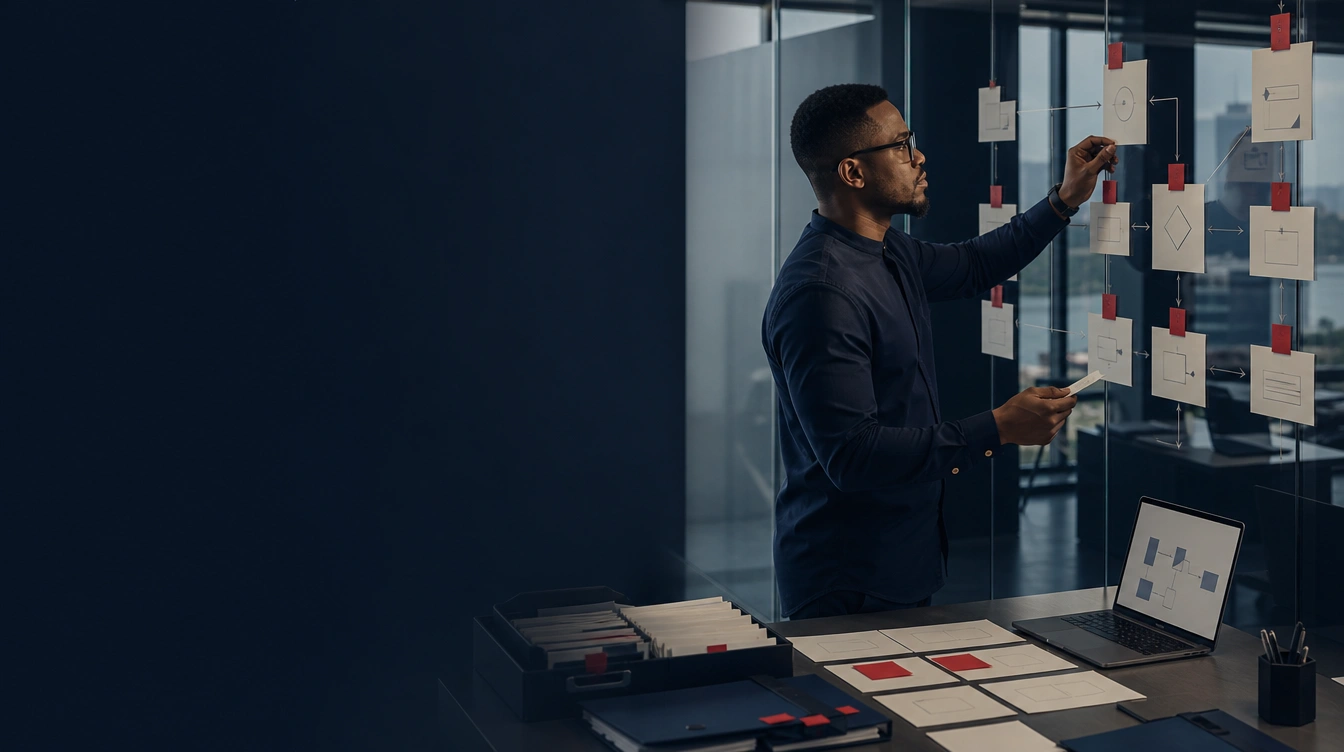
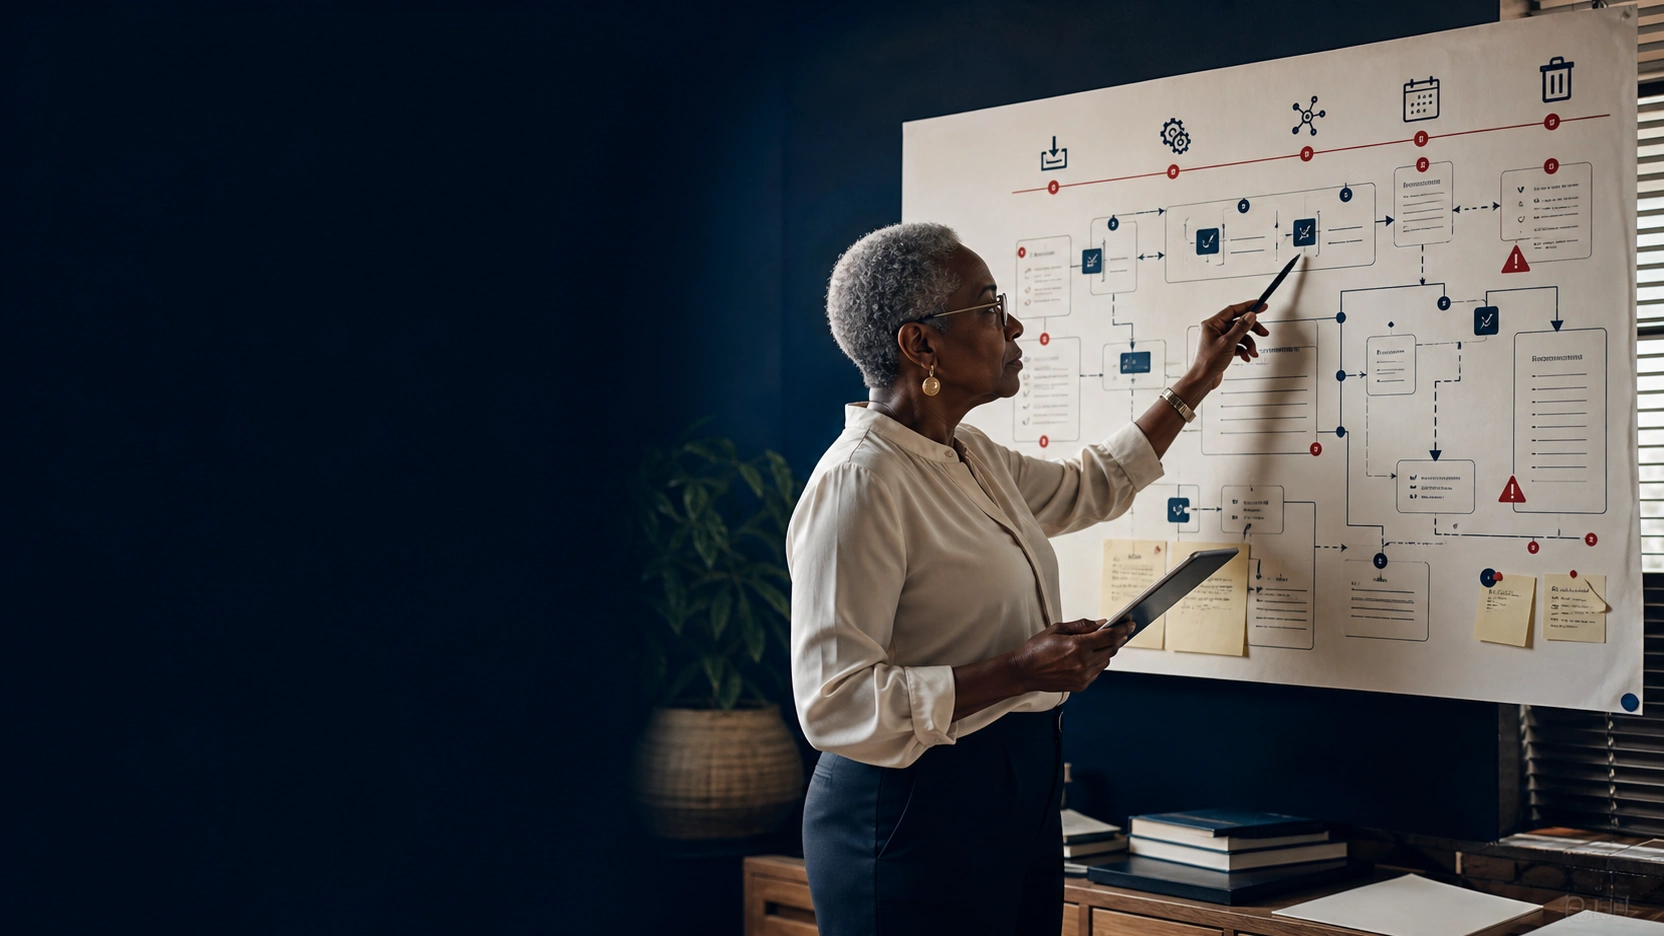
fix: refine services lifecycle and hero asset

diff --git a/app/globals.css b/app/globals.css
@@ -315,19 +315,14 @@ h1 { max-width: 720px; margin-bottom: 30px; color: white; font-size: clamp(49px,
 .services-value { margin: 0; padding: 22px; border-left: 3px solid var(--crimson); background: rgba(8,36,51,.055); color: var(--ink); font-size: 12px; line-height: 1.65; }
 .services-value b { margin-right: .28em; }
 .services-lifecycle { background: #e9eeee; }
-.services-lifecycle-static { position: relative; min-height: 270px; margin: -25px 0 40px; overflow: hidden; }
-.services-lifecycle-static svg { width: 100%; height: auto; min-width: 760px; }
-.services-lifecycle-track, .services-lifecycle-progress { fill: none; stroke-width: 3; }
-.services-lifecycle-track { stroke: rgba(8,36,51,.2); }
-.services-lifecycle-progress { stroke: var(--crimson); stroke-dasharray: 1020; stroke-dashoffset: 0; }
-.services-lifecycle-node circle { fill: var(--paper); stroke: var(--navy); stroke-width: 2; }
-.services-lifecycle-node text { fill: var(--navy); font: 800 17px var(--font-manrope), sans-serif; letter-spacing: .08em; }
+.services-lifecycle-static { position: relative; min-height: 270px; margin: -25px 0 40px; padding: 0 clamp(20px, 4vw, 48px); display: grid; align-items: center; overflow: hidden; }
+.services-lifecycle-track, .services-lifecycle-progress { position: absolute; top: 50%; left: clamp(20px, 4vw, 48px); right: clamp(20px, 4vw, 48px); height: 3px; transform: translateY(-50%); }
+.services-lifecycle-track { background: rgba(8,36,51,.2); }
+.services-lifecycle-progress { background: var(--crimson); transform-origin: left center; }
+.services-lifecycle-nodes { position: relative; z-index: 1; display: grid; grid-template-columns: repeat(5, minmax(0, 1fr)); gap: clamp(12px, 2vw, 24px); align-items: center; margin: 0; padding: 0; list-style: none; }
+.services-lifecycle-node { display: grid; place-items: center; width: clamp(58px, 8vw, 98px); aspect-ratio: 1; margin-inline: auto; border: 2px solid var(--navy); border-radius: 999px; background: var(--paper); color: var(--navy); font: 800 clamp(13px, 1.4vw, 17px)/1 var(--font-manrope), sans-serif; letter-spacing: .08em; }
 .services-lifecycle--animated .services-lifecycle-progress { animation: services-lifecycle-flow 5s ease-in-out infinite; }
-.services-lifecycle--animated .services-lifecycle-node { animation: services-lifecycle-pulse 5s ease-in-out infinite; transform-box: fill-box; transform-origin: center; }
-.services-lifecycle--animated .services-lifecycle-node:nth-of-type(2) { animation-delay: 1s; }
-.services-lifecycle--animated .services-lifecycle-node:nth-of-type(3) { animation-delay: 2s; }
-.services-lifecycle--animated .services-lifecycle-node:nth-of-type(4) { animation-delay: 3s; }
-.services-lifecycle--animated .services-lifecycle-node:nth-of-type(5) { animation-delay: 4s; }
+.services-lifecycle--animated .services-lifecycle-node { animation: services-lifecycle-pulse 5s ease-in-out infinite; transform-origin: center; }
 .services-stage-grid { display: grid; grid-template-columns: repeat(5, 1fr); border-top: 1px solid var(--navy); }
 .services-stage-grid article { min-height: 245px; padding: 30px 25px; border-right: 1px solid var(--rule); }
 .services-stage-grid article:last-child { border-right: 0; }
@@ -345,7 +340,7 @@ h1 { max-width: 720px; margin-bottom: 30px; color: white; font-size: clamp(49px,
 .services-cta p:last-child { margin: 0; color: #ffe5e7; }
 .services-cta a { min-width: 215px; min-height: 54px; display: inline-flex; justify-content: space-between; align-items: center; gap: 24px; padding: 0 20px; background: white; color: var(--crimson); font-size: 11px; font-weight: 850; }
 .services-cta a svg { width: 18px; }
-@keyframes services-lifecycle-flow { 0% { stroke-dashoffset: 1020; } 70%, 100% { stroke-dashoffset: 0; } }
+@keyframes services-lifecycle-flow { 0% { transform: translateY(-50%) scaleX(0); } 70%, 100% { transform: translateY(-50%) scaleX(1); } }
 @keyframes services-lifecycle-pulse { 0%, 12%, 100% { transform: scale(1); } 6% { transform: scale(1.1); } }
 
 /* Industries */
@@ -587,8 +582,10 @@ h1 { max-width: 720px; margin-bottom: 30px; color: white; font-size: clamp(49px,
   .services-pillar > div:first-child { grid-template-columns: 34px 1fr; gap: 12px; }
   .services-stage-grid { grid-template-columns: 1fr; }
   .services-stage-grid article { min-height: 0; border-right: 0; }
-  .services-lifecycle-static { min-height: 210px; overflow-x: auto; }
-  .services-lifecycle-static svg { width: 760px; }
+  .services-lifecycle-static { min-height: 180px; margin-bottom: 28px; padding-inline: 0; }
+  .services-lifecycle-track, .services-lifecycle-progress { left: 0; right: 0; }
+  .services-lifecycle-nodes { gap: 8px; }
+  .services-lifecycle-node { width: clamp(44px, 14vw, 56px); font-size: 12px; }
   .services-cta a { width: 100%; }
 }
 

diff --git a/app/components/ServicesLifecycle.tsx b/app/components/ServicesLifecycle.tsx
@@ -1,6 +1,8 @@
 "use client";
 
-import { useEffect, useState } from "react";
+import { type CSSProperties, useEffect, useState } from "react";
+
+const lifecycleSteps = ["01", "02", "03", "04", "05"];
 
 export function ServicesLifecycle() {
   const [animated, setAnimated] = useState(false);
@@ -20,16 +22,15 @@ export function ServicesLifecycle() {
       aria-label="GPM advisory lifecycle diagram"
       tabIndex={0}
     >
-      <svg aria-hidden="true" focusable="false" viewBox="0 0 1200 300">
-        <path className="services-lifecycle-track" d="M90 150H1110" />
-        <path className="services-lifecycle-progress" d="M90 150H1110" />
-        {[90, 345, 600, 855, 1110].map((x, index) => (
-          <g className="services-lifecycle-node" key={x}>
-            <circle cx={x} cy="150" r="49" />
-            <text x={x} y="157" textAnchor="middle">{String(index + 1).padStart(2, "0")}</text>
-          </g>
+      <div className="services-lifecycle-track" aria-hidden="true" />
+      <div className="services-lifecycle-progress" aria-hidden="true" />
+      <ol className="services-lifecycle-nodes" aria-hidden="true">
+        {lifecycleSteps.map((step, index) => (
+          <li className="services-lifecycle-node" key={step} style={{ animationDelay: `${index}s` } as CSSProperties}>
+            <span>{step}</span>
+          </li>
         ))}
-      </svg>
+      </ol>
     </div>
   );
 }

diff --git a/README.md b/README.md
@@ -83,21 +83,21 @@ The people shown are illustrative subjects. They are not GPM personnel or staff,
 
 ### Services imagery (new GPT Image 2 generation, 2026-08-25)
 
-Two genuinely new GPT Image 2 production masters were generated and approved by Groot for this refinement; the previous local assets (`gpm-privacy-impact-assessment-v2.webp` and `gpm-privacy-capability-workshop-v3.webp`) were not reused, derived, or regenerated.
+Two genuinely new text-to-image production masters were generated with OpenAI GPT Image 2 Medium and accepted for this refinement. No supplied reference, existing GPM production image, or other image was provided to the model as an input. Screenshots were used outside the model only to assess placement, focal position, and crop resilience. The previous local assets (`gpm-privacy-impact-assessment-v2.webp` and `gpm-privacy-capability-workshop-v3.webp`) were not reused, derived, regenerated, or used as references.
 
 **Hero decorative master**
-- Job ID / generation mode: `gpt_image_2` (text-to-image), job `10f13d2c-a8c7-4984-ad9e-f006c52f20ef`, model `videotape-alpha`, tier `gpt-image-2-medium`
-- Generation mode: text-to-image; supplied reference screenshots were used only to determine placement, crop and focal position and were not model inputs
-- Master file: `/tmp/gpm-hero-new.png`
[1 lines of base64/hex data omitted]
-- Actual master dimensions: `1344 × 752`
+- Generation mode: text-to-image with GPT Image 2 Medium; no model image inputs
+- Accepted master: `.hermes/generated/gpm-services-hero-new.png`
[1 lines of base64/hex data omitted]
+- Master dimensions: `1664 × 936`
 - Production derivative: `public/images/gpm-services-privacy-impact-data-flow-lagos-2026.webp`
[1 lines of base64/hex data omitted]
-- Derivative dimensions: `1344 × 752`
-- Derivative file size: `92380` bytes (`90.2 KB`)
-- Derivative format: metadata-light lossy WebP (`-q:v 95`, no embedded metadata/title/author)
[1 lines of base64/hex data omitted]
+- Derivative dimensions: `1664 × 936`
+- Derivative file size: `177130` bytes
+- Derivative format: metadata-stripped high-quality lossy WebP (`-q:v 95`, compression level 6); no resizing or cropping from the accepted master
 - Scene: new editorial photograph of a credible African privacy engineer actively performing a privacy impact assessment in a Lagos operations workspace; the narrative connects directly to GPM’s privacy and data-governance work
 - Disclosure: the person shown is an illustrative generated subject, not GPM personnel or staff, not a client, and not a participant in a real engagement; the background is decorative with no alt/focus
+- Acceptance: accepted on the first generation. The generated output was minimally centre-cropped losslessly from 1672 × 941 to the exact 16:9 accepted master before this derivative milestone; no scene edit was made.
 
 **Integrated design master**
 - Model/provider: OpenAI GPT Image 2 Medium through the subscription-backed `openai-codex` image generator
@@ -114,7 +114,7 @@ Two genuinely new GPT Image 2 production masters were generated and approved by 
 - Disclosure: the people shown are illustrative generated subjects, not GPM personnel or staff, not clients, and not participants in a real engagement; image is presented with truthful alt text and illustrative-subject disclosure caption
 - Acceptance/regeneration: the prior inclusive image was rejected because its strings, grids and symbolic props made the work feel abstract. The first grounded candidate was rejected for lower-right caption intrusion and legible generated text; one clean regeneration produced the accepted 1536 × 1024 image.
 
-The previous stale statement that neither asset was regenerated is removed. These two assets replace only the previous hero (`gpm-privacy-impact-assessment-v2.webp`) and integrated (`gpm-privacy-capability-workshop-v3.webp`) references on the Services route; the old binary files remain in the repository if referenced by other routes, and removal would be unsafe.
+These two assets replace only the previous hero (`gpm-privacy-impact-assessment-v2.webp`) and integrated (`gpm-privacy-capability-workshop-v3.webp`) references on the Services route; the old binary files remain in the repository if referenced by other routes, and removal would be unsafe.
 
 ### Industries editorial image (approved mockup asset)
 

diff --git a/PROJECT_CONTEXT.md b/PROJECT_CONTEXT.md
@@ -69,9 +69,10 @@ This imagery workflow is the standing project standard. It applies to all future
 
 - Scope: Services hero and “One challenge can require several kinds of expertise.”
 - Creative authority: meeting-led GPM privacy and data-governance workflow above.
-- Model/provider: hero—GPT Image 2 through Higgsfield (`videotape-alpha`); inclusive integrated update—OpenAI GPT Image 2 Medium through the subscription-backed `openai-codex` image generator.
-- Method: genuinely new text-to-image generations. Supplied screenshots defined placement and crop only; they were not model inputs. No prior GPM image was used as a generation reference.
[1 lines of base64/hex data omitted]
+- Model/provider: hero—OpenAI GPT Image 2 Medium (configured generation model); integrated grounded update—OpenAI GPT Image 2 Medium through the subscription-backed `openai-codex` image generator.
+- Method: genuinely new text-to-image generations. No supplied reference, existing GPM production image, or other image was provided to the model as an input. Screenshots were used outside the model only to assess placement, focal position and crop resilience.
[3 lines of base64/hex data omitted]
 - Integrated inclusion and activity direction: exactly three Nigerian professionals in a familiar collaborative work session, including a Muslim woman in a refined hijab and a man in native attire with an understated northern Nigerian embroidered cap. They brainstorm around two ordinary laptops, notebooks, working papers and a simple paper data-flow sketch. Cultural details are contemporary and professional rather than costume-like; the activity is grounded and immediately relatable rather than staged or abstract. The prior inclusive candidate was rejected because strings, grids and symbolic workflow props made the activity too conceptual. A first grounded candidate was then rejected for lower-right caption intrusion and legible generated document text; one clean regeneration produced the accepted image.
 - Disclosure: subjects are AI-generated illustrative people—not GPM personnel, clients, or participants in a real engagement.
